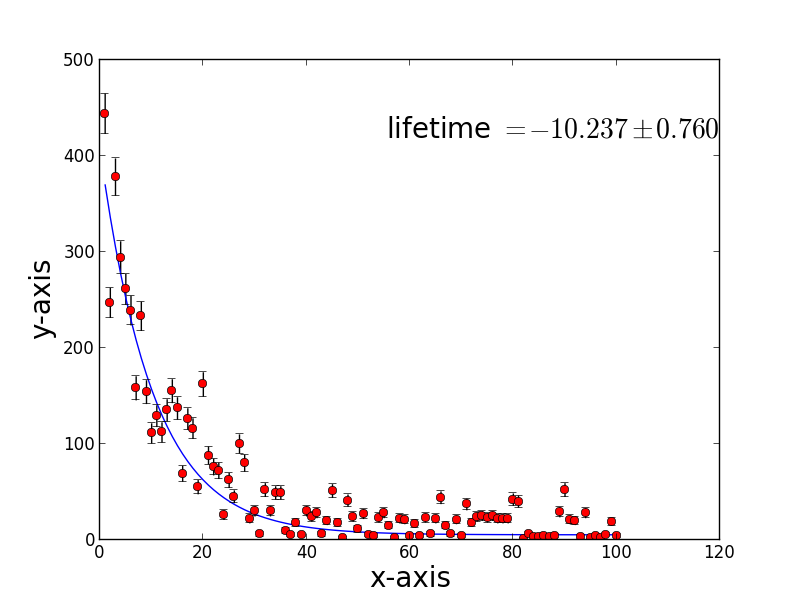
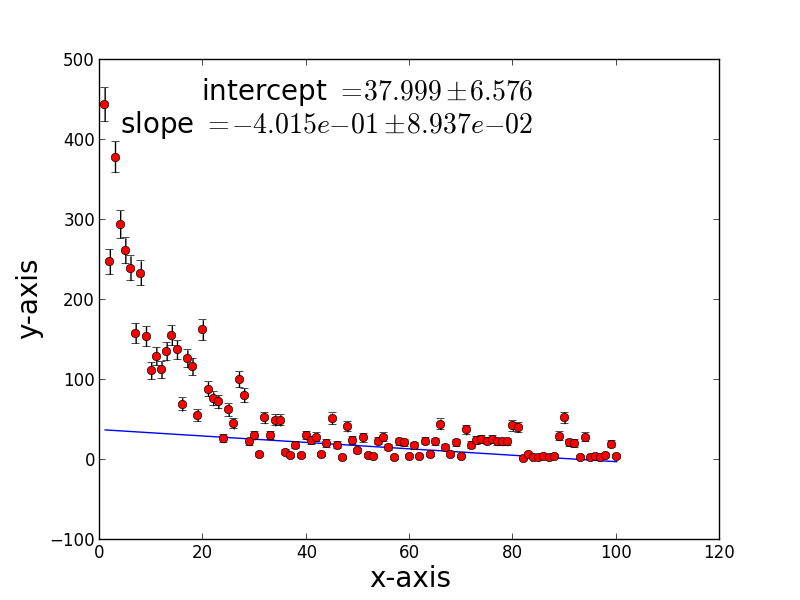
Added radiation lab.

diff --git a/python/NIU_Phys_284_Lab/radiation_lab.py b/python/NIU_Phys_284_Lab/radiation_lab.py
@@ -1,0 +1,127 @@
+# Routine linear fit demo.
+# Adapted from http://physics.nyu.edu/pine/pymanual/graphics/graphics.html
+import numpy as np
+import numpy.random
+import matplotlib.pyplot as plt
+import scipy.optimize
+import datetime
+
+################################################################################
+# define function to calculate reduced chi-squared
+################################################################################
+def RedChiSqr(func, x, y, dy, params):
+    resids = y - func(x, *params)
+    chisq = ((resids/dy)**2).sum()
+    return chisq/float(x.size-params.size)
+
+################################################################################
+# Define fitting function for linear fit.
+################################################################################
+def exponential_and_offset(x,tau,A,offset):
+    return A*np.exp(-x/tau) + offset
+
+################################################################################
+# main 
+################################################################################
+def main():
+
+    ############################################################################
+    # Edit these for your particular dataset.
+    ############################################################################
+    infile = open('lab_data.dat')
+    do_fit = False # Can be True or False
+
+    # Create some arrays to store the data.
+    xdata = np.array([])
+    ydata = np.array([])
+    yerr  = np.array([])
+    xerr  = np.array([])
+
+    ############################################################################
+    # Read in the data.
+    ############################################################################
+    
+
+    line_count = 0
+
+    starting_time = None
+    time_start = None
+
+    for line in infile:
+        vals = line.split()
+
+
+        if len(vals)>=6:
+            ydata = np.append(ydata,float(vals[2]))
+            xerr = np.append(xerr,float(vals[3]))
+
+            time_string = vals[5]
+            hours = float(time_string.split(':')[0])
+            minutes = float(time_string.split(':')[1])
+            seconds = float(time_string.split(':')[2])
+            time_start = datetime.timedelta(hours=hours,minutes=minutes,seconds=seconds)
+
+            #xdata = np.append(xdata,float(vals[0]))
+            
+            if line_count==0:
+                starting_time = time_start
+
+            xval = (time_start-starting_time).total_seconds()
+            xdata = np.append(xdata,xval)
+
+            line_count += 1
+
+    # Define the y-error to be the square root of the number of counts.
+    yerr  = np.sqrt(ydata)
+
+    ############################################################################
+
+    # Plot data and fit
+    fig = plt.figure()
+    ax1 = fig.add_subplot(111)
+
+    # Set the x-range on the limits
+    #ax1.set_xlim(-1,5.0)
+
+    ax1.errorbar(xdata,ydata,yerr,xerr=xerr,fmt="or",ecolor="black")
+
+    ax1.set_xlabel("x-axis",fontsize=20)
+    ax1.set_ylabel("y-axis",fontsize=20)
+
+    if do_fit:
+        # Perform exponential_and_offset fit using Levenburg-Marquardt algorithm
+        # Take some guesses at what the values are 
+        tau = 100.0 # slope
+        A = 3000 # y-intercept
+        offset = 10.0 # y-intercept
+        nlfit, nlpcov = scipy.optimize.curve_fit(exponential_and_offset, xdata, ydata, p0=[tau,A,offset], sigma=yerr)
+
+        # Unpack output and give outputs of fit nice names
+        tau_fit,A_fit,offset_fit = nlfit           # returned values of fitting parameters
+        dtau_fit = np.sqrt(nlpcov[0][0]) # uncertainty in 1st fitting parameter
+        dA_fit = np.sqrt(nlpcov[1][1]) # uncertainty in 2nd fitting parameter
+        doffset_fit = np.sqrt(nlpcov[2][2]) # uncertainty in 2nd fitting parameter
+
+        # Compute reduced chi square.
+        # Need to do this to get proper uncertainties on the fit values.
+        rchisq = RedChiSqr(exponential_and_offset, xdata, ydata, yerr, nlfit)
+
+        # Create fitted data for plotting the fit function over the measured data.
+        qfit = np.linspace(xdata.min(),xdata.max(),100)
+        Sfit = exponential_and_offset(qfit, tau_fit, A_fit, offset_fit)
+
+        ax1.plot(qfit, Sfit)
+
+        ax1.text(0.7,0.85,r'$y = Ae^{-t/\tau} + k$',fontsize=30,ha="right",va="bottom",transform=ax1.transAxes)
+        ax1.text(0.7,0.70,
+                     "$\\tau= {0:0.3f} \pm {1:0.3f}$".format(tau_fit, dtau_fit),
+                          ha="right", va="bottom", transform = ax1.transAxes,fontsize=20)
+
+    # Save the image.
+    plt.savefig("radiation_lab.png")
+    plt.show()
+
+################################################################################
+################################################################################
+if __name__ == "__main__":
+    main()
